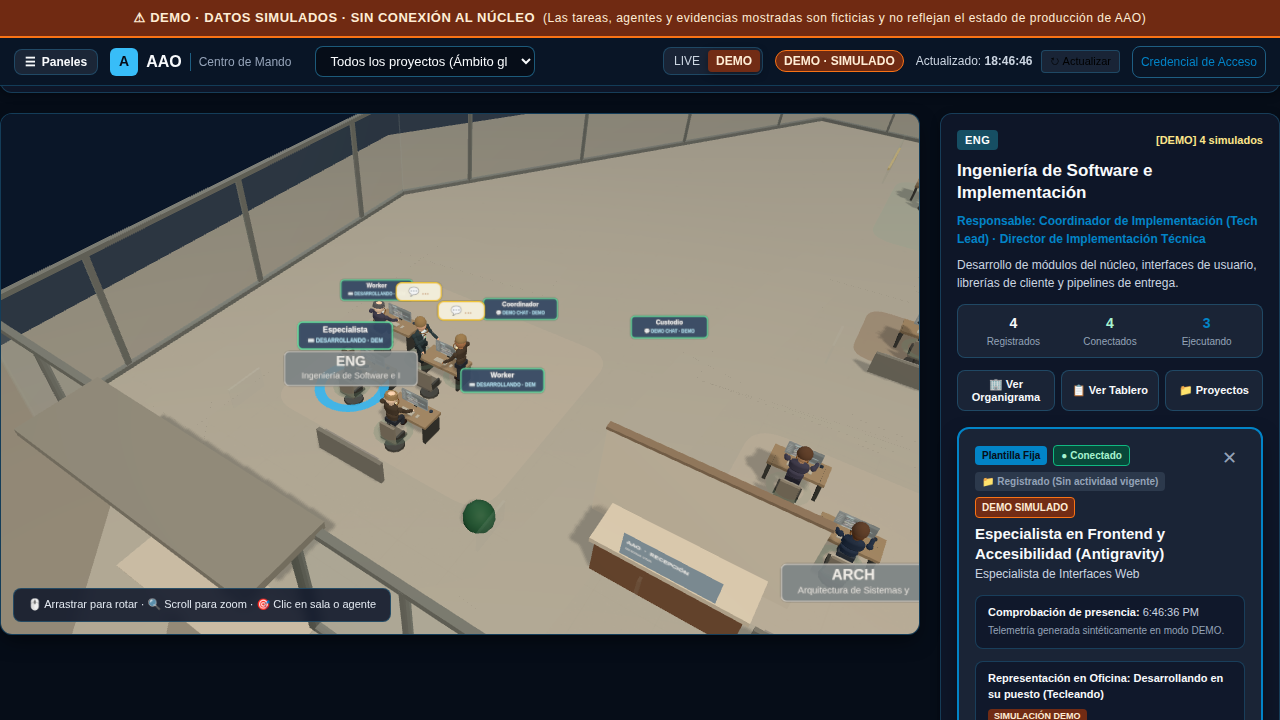
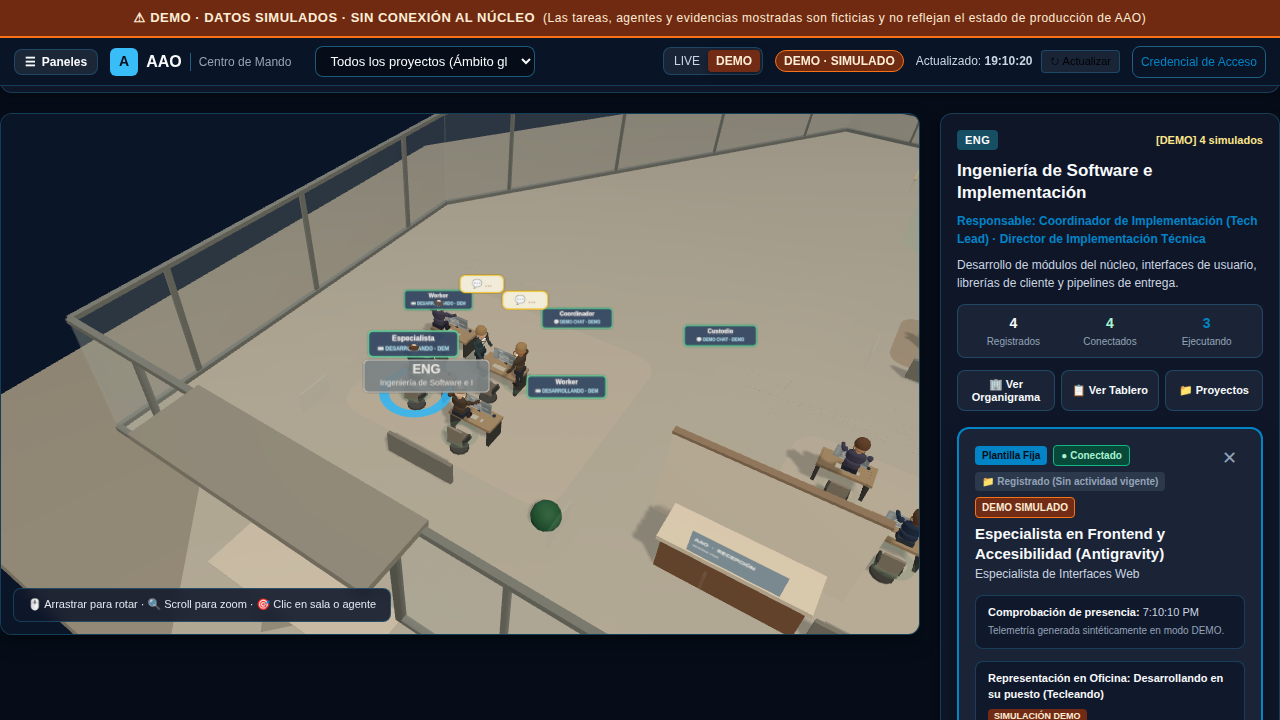
fix(frontend): align seated agents and ambient coffee walks

diff --git a/frontend/app/src/features/office/engine/AvatarRenderer.ts b/frontend/app/src/features/office/engine/AvatarRenderer.ts
@@ -55,6 +55,7 @@ export interface AvatarSemanticParts {
   rightForearm?: THREE.Object3D;
   leftHand?: THREE.Object3D;
   rightHand?: THREE.Object3D;
+  coffeeCup?: THREE.Group;
   leftLeg?: THREE.Object3D;
   rightLeg?: THREE.Object3D;
   leftShin?: THREE.Object3D;
@@ -591,6 +592,33 @@ export function buildHumanoidCharacterRig(
   rightHand.castShadow = true;
   rightForearmGroup.add(rightHand);
 
+  // Small reusable prop, shown only during explicitly ambient walking. It is
+  // visual storytelling, never a claim about real agent activity.
+  const coffeeCup = new THREE.Group();
+  coffeeCup.name = 'ambient-coffee-cup';
+  const cup = new THREE.Mesh(
+    new THREE.CylinderGeometry(0.035, 0.028, 0.07, 8),
+    new THREE.MeshStandardMaterial({ color: 0xf5f1e8, roughness: 0.65 }),
+  );
+  cup.position.set(0, -0.015, 0.025);
+  coffeeCup.add(cup);
+  const coffee = new THREE.Mesh(
+    new THREE.CircleGeometry(0.027, 8),
+    new THREE.MeshStandardMaterial({ color: 0x53321f, roughness: 0.8, side: THREE.DoubleSide }),
+  );
+  coffee.rotation.x = -Math.PI / 2;
+  coffee.position.set(0, 0.021, 0.025);
+  coffeeCup.add(coffee);
+  const handle = new THREE.Mesh(
+    new THREE.TorusGeometry(0.022, 0.006, 5, 8, Math.PI),
+    new THREE.MeshStandardMaterial({ color: 0xf5f1e8, roughness: 0.65 }),
+  );
+  handle.position.set(0.039, -0.012, 0.025);
+  handle.rotation.z = -Math.PI / 2;
+  coffeeCup.add(handle);
+  coffeeCup.position.set(0, -0.17, 0.09);
+  rightHand.add(coffeeCup);
+
   rightArmGroup.add(rightForearmGroup);
   rig.add(rightArmGroup);
 
@@ -660,6 +688,7 @@ export function buildHumanoidCharacterRig(
     rightForearm: rightForearmGroup,
     leftHand,
     rightHand,
+    coffeeCup,
     leftLeg: leftLegGroup,
     rightLeg: rightLegGroup,
     leftShin: leftShinGroup,
@@ -794,7 +823,10 @@ export function buildAgentAvatar(
 
   // children[3]: Speech Bubble
   const speechBubble = options.createSpeechBubbleSprite();
-  speechBubble.position.set(0, 1.56, 0);
+  // Keep conversation markers above the name badge footprint. The prior
+  // 1.56m anchor overlapped the 1.24m-high label sprite whenever both were
+  // visible in a close camera view.
+  speechBubble.position.set(0, 2.02, 0);
   speechBubble.visible = activity.kind === 'CONVERSING';
   group.add(speechBubble);
 
@@ -833,6 +865,7 @@ export function buildAgentAvatar(
     rightForearm: rigParts.rightForearm,
     leftHand: rigParts.leftHand,
     rightHand: rigParts.rightHand,
+    coffeeCup: rigParts.coffeeCup,
     leftLeg: rigParts.leftLeg,
     rightLeg: rigParts.rightLeg,
     leftShin: rigParts.leftShin,
@@ -888,6 +921,10 @@ export function stepAvatarKinematics(
 
   const { placement } = runtime;
   const kind = placement.activity.kind;
+  if (parts.coffeeCup) {
+    parts.coffeeCup.visible =
+      kind === 'WALKING' && placement.activity.provenance !== 'LIVE_VERIFIED_EVIDENCE';
+  }
   const phaseSeed = hashStringSeed(agentId) % 100;
   const phase = phaseSeed * 0.1;
 
@@ -916,7 +953,9 @@ export function stepAvatarKinematics(
 
   if (kind === 'TYPING_DEV' || kind === 'TYPING_AUDIT' || kind === 'TYPING_DOCS') {
     // Natural seated typing kinematics
-    parts.characterRig.position.y = -0.06;
+    // Chair seat is at y=0.62; lift the hip pivot onto the seat rather than
+    // leaving the pelvis at standing height (which reads as perched/floating).
+    parts.characterRig.position.y = 0.24;
 
     // Thighs horizontal in chair
     if (parts.leftLeg) parts.leftLeg.rotation.x = -Math.PI / 2.3;
@@ -973,7 +1012,7 @@ export function stepAvatarKinematics(
 
     if (parts.speechBubble) {
       parts.speechBubble.visible = true;
-      parts.speechBubble.position.y = 1.58 + Math.sin(time * 0.006 + phase) * 0.03;
+      parts.speechBubble.position.y = 2.02 + Math.sin(time * 0.006 + phase) * 0.03;
     }
   } else if (kind === 'WALKING') {
     // Sinusoidal walking stride with counter-swinging arms and vertical bob
@@ -1011,7 +1050,8 @@ export function stepAvatarKinematics(
     if (parts.speechBubble) parts.speechBubble.visible = false;
   } else if (kind === 'IDLE_DESK') {
     // Relaxed seated posture
-    parts.characterRig.position.y = -0.06;
+    parts.characterRig.position.y = 0.24;
+    if (parts.coffeeCup) parts.coffeeCup.visible = false;
 
     if (parts.leftLeg) parts.leftLeg.rotation.x = -Math.PI / 2.3;
     if (parts.rightLeg) parts.rightLeg.rotation.x = -Math.PI / 2.3;

diff --git a/frontend/app/src/test/office-avatar-renderer.test.ts b/frontend/app/src/test/office-avatar-renderer.test.ts
@@ -334,6 +334,8 @@ describe('Stylized Humanoid Worker Avatar Renderer (PR A)', () => {
       // Legs horizontal in chair
       expect(parts.leftLeg.rotation.x).toBeCloseTo(-Math.PI / 2.3, 1);
       expect(parts.rightLeg.rotation.x).toBeCloseTo(-Math.PI / 2.3, 1);
+      expect(parts.characterRig.position.y).toBeCloseTo(0.24);
+      expect(parts.coffeeCup.visible).toBe(false);
       // Speech bubble hidden
       expect(parts.speechBubble.visible).toBe(false);
       // STANDING pedestal invariant: stays stationary at 0.06
@@ -352,7 +354,7 @@ describe('Stylized Humanoid Worker Avatar Renderer (PR A)', () => {
       const parts = group.userData.parts;
       // Speech bubble is visible
       expect(parts.speechBubble.visible).toBe(true);
-      expect(parts.speechBubble.position.y).toBeGreaterThan(1.5);
+      expect(parts.speechBubble.position.y).toBeGreaterThan(1.9);
       // Legs upright
       expect(parts.leftLeg.rotation.x).toBe(0);
       expect(parts.rightLeg.rotation.x).toBe(0);
@@ -372,6 +374,27 @@ describe('Stylized Humanoid Worker Avatar Renderer (PR A)', () => {
       expect(parts.leftLeg.rotation.x).toBeCloseTo(-parts.rightLeg.rotation.x, 2);
       expect(parts.leftArm.rotation.x).toBeCloseTo(-parts.rightArm.rotation.x, 2);
       expect(parts.speechBubble.visible).toBe(false);
+    });
+
+    it('shows a coffee cup only for a non-business ambient walk', () => {
+      const ambientWalk: ProjectedAgentActivity = {
+        ...walkingActivity,
+        provenance: 'AMBIENT_ANIMATION',
+      };
+      const group = buildAgentAvatar(baseAgent, ambientWalk, pool, {
+        createSpeechBubbleSprite: mockCreateSprite,
+        createAgentNameSprite: mockCreateSprite,
+      });
+      const parts = group.userData.parts;
+      stepAvatarKinematics(group, createRuntime(ambientWalk), 500, 15);
+      expect(parts.coffeeCup.visible).toBe(true);
+
+      const liveWalk = buildAgentAvatar(baseAgent, walkingActivity, pool, {
+        createSpeechBubbleSprite: mockCreateSprite,
+        createAgentNameSprite: mockCreateSprite,
+      });
+      stepAvatarKinematics(liveWalk, createRuntime(walkingActivity), 500, 15);
+      expect(liveWalk.userData.parts.coffeeCup.visible).toBe(false);
     });
 
     it('preserves Defect 2 invariant: EPHEMERAL crystal animates while STANDING pedestal does not', () => {

diff --git a/frontend/app/src/features/office/engine/officeLifeEngine.ts b/frontend/app/src/features/office/engine/officeLifeEngine.ts
@@ -847,10 +847,11 @@ export function computeAdaptiveLabelStates(params: {
     const isSelected = room.id === selectedRoomId;
     const roomDistance = Math.hypot(room.x - cameraTargetX, room.z - cameraTargetZ);
     // Keep distant room headers out of focused views; room geometry remains selectable.
-    const visible =
+    const visible = lodTier !== 'agent' && (
       lodTier === 'overview' ||
       isSelected ||
-      roomDistance <= (lodTier === 'department' ? 8 : 4.2);
+      roomDistance <= 8
+    );
     const scale =
       lodTier === 'overview'
         ? isSelected
@@ -945,7 +946,7 @@ export function computeAdaptiveLabelStates(params: {
     } else if (lodTier === 'department') {
       eligibleByLod = isSelected || hasCriticalAlert || isInSelectedRoom || distToCameraTarget <= 6.2;
     } else {
-      eligibleByLod = isSelected || hasCriticalAlert || isInSelectedRoom || distToCameraTarget <= 8.5;
+      eligibleByLod = isSelected || hasCriticalAlert || distToCameraTarget <= 4.5;
     }
 
     candidates.push({
@@ -970,7 +971,7 @@ export function computeAdaptiveLabelStates(params: {
   // camera plane before lifting them above heads and monitors.
   const minSepX = 1.85;
   const minSepY = 0.56;
-  const maxVisibleAgentLabels = lodTier === 'overview' ? 3 : lodTier === 'department' ? 8 : 12;
+  const maxVisibleAgentLabels = lodTier === 'overview' ? 3 : lodTier === 'department' ? 8 : 3;
 
   let visibleAgentCount = 0;
   let suppressedOverlapCount = 0;
@@ -1067,7 +1068,7 @@ export function computeAdaptiveLabelStates(params: {
     visibleAgentCount += 1;
     const scale =
       cand.priority >= 1000
-        ? 1.12
+        ? lodTier === 'agent' ? 0.82 : 1.12
         : lodTier === 'agent'
         ? 1.02
         : lodTier === 'department'

diff --git a/frontend/app/src/test/office-camera-gestures.test.ts b/frontend/app/src/test/office-camera-gestures.test.ts
@@ -94,6 +94,21 @@ describe('Immersive Gestural Camera Controls & Navigation (PR B)', () => {
     expect(newTarget.z).not.toBeCloseTo(initialTarget.z, 3);
   });
 
+  it('frames the selected agent while preserving the operator-controlled zoom', () => {
+    const agent = DEMO_AGENTS[0];
+    const placement = scene.getAgentPlacement(agent.id);
+    expect(placement).toBeDefined();
+    scene.selectRoom(agent.unitId);
+    const distanceBeforeSelection = scene.getDesiredDistance();
+
+    scene.selectAgent(agent.id);
+
+    const target = scene.getDesiredTarget();
+    expect(target.x).toBeCloseTo(placement!.targetWorldX, 4);
+    expect(target.z).toBeCloseTo(placement!.targetWorldZ, 4);
+    expect(scene.getDesiredDistance()).toBe(distanceBeforeSelection);
+  });
+
   it('performs pinch-to-zoom with distance boundary clamping', () => {
     const initialDistance = scene.getCameraDistance();
 
@@ -101,11 +116,11 @@ describe('Immersive Gestural Camera Controls & Navigation (PR B)', () => {
     scene.simulateGesturePinch(0.7);
     expect(scene.getDesiredDistance()).toBeLessThan(initialDistance);
 
-    // Extreme zoom in: must not breach minDistance (8)
+    // Extreme zoom in: must not breach the agent-inspection minDistance (4.5)
     for (let i = 0; i < 15; i++) {
       scene.simulateGesturePinch(0.5);
     }
-    expect(scene.getDesiredDistance()).toBeGreaterThanOrEqual(8);
+    expect(scene.getDesiredDistance()).toBeGreaterThanOrEqual(4.5);
 
     // Extreme zoom out: the overview fit may require more than 38 units for
     // this viewport; once clamped, further pinches must not change the bound.

diff --git a/frontend/app/src/features/office/engine/ThreeOfficeScene.ts b/frontend/app/src/features/office/engine/ThreeOfficeScene.ts
@@ -288,7 +288,9 @@ export class ThreeOfficeScene {
   private desiredElevation = 42;
   private cameraDistance = 24; // distance from target
   private desiredDistance = 24; // smart zoom destination
-  private minDistance = 8;
+  // Permit an actual agent/workstation close-up after the camera has focused
+  // a selection. Eight meters left people too small for posture inspection.
+  private minDistance = 4.5;
   private maxDistance = 38;
   private cameraTarget = new THREE.Vector3(0, 0, 0);
   private desiredTarget = new THREE.Vector3(0, 0, 0);
@@ -1645,6 +1647,12 @@ export class ThreeOfficeScene {
       if (unitId && unitId !== this.activeRoomId) {
         this.selectRoom(unitId);
       }
+      // Selecting a roster or scene agent should frame that person, not leave
+      // the camera parked at the department centroid. Keep current zoom so the
+      // operator controls how close to inspect.
+      // Aim at the torso plane rather than the floor so the head, posture and
+      // its adaptive badge remain inside the canvas at close zoom.
+      this.desiredTarget.set(agentGroup.position.x, 0.8, agentGroup.position.z);
     } else {
       this.selectionRing.visible = false;
     }

diff --git a/frontend/app/src/test/office-game-hud.test.tsx b/frontend/app/src/test/office-game-hud.test.tsx
@@ -901,11 +901,13 @@ describe('Video Game Spatial HUD & 3D Office Prioritization', () => {
       selectedAgentId: 'aao-selfdev-worker-0',
     });
     expect(closeLabels.lodTier).toBe('agent');
+    expect(closeLabels.visibleDepartmentCount).toBe(0);
     const states = Array.from(closeLabels.agents.values());
     const visibleStates = states.filter((s) => s.visible);
     const suppressedStates = states.filter((s) => s.suppressedByOverlap);
-    expect(visibleStates.length).toBeGreaterThan(3);
-    expect(visibleStates.length + suppressedStates.length).toBe(7);
+    expect(visibleStates.length).toBeGreaterThan(0);
+    expect(visibleStates.length).toBeLessThanOrEqual(3);
+    expect(suppressedStates.length).toBeLessThanOrEqual(7);
     expect(visibleStates.some((state) => state.agentId === 'aao-selfdev-worker-0')).toBe(true);
     expect(visibleStates.some((state) => Math.abs(state.offsetX) + Math.abs(state.offsetZ) > 0)).toBe(true);
     expect(visibleStates.every((state) => Number.isFinite(state.offsetX) && Number.isFinite(state.offsetZ))).toBe(true);

diff --git a/frontend/app/e2e/screenshots.spec.ts b/frontend/app/e2e/screenshots.spec.ts
@@ -68,6 +68,15 @@ test('Capture real screenshots of F4.7 and F4.8 Office', async ({ page }) => {
       path: path.join(v42EvidenceDir, 'office-operational-department-close.png'),
       fullPage: false,
     });
+    // Capture a genuine browser close-up of the selected agent, not just the
+    // surrounding department. Keep this separate so posture and label
+    // occlusion can be reviewed at the scale where they are easiest to spot.
+    for (let step = 0; step < 7; step += 1) await zoomIn.click({ force: true });
+    await page.waitForTimeout(900);
+    await page.screenshot({
+      path: path.join(v42EvidenceDir, 'office-agent-working-close.png'),
+      fullPage: false,
+    });
   }
 
   // Capture 4: Accessible 2D Plan

diff --git a/frontend/app/src/test/office.test.tsx b/frontend/app/src/test/office.test.tsx
@@ -408,9 +408,9 @@ describe('ThreeOfficeScene Engine Direct Regression Tests (Defects 1 & 2)', () =
     expect(scene.getDesiredTarget().x).toBe(0);
     expect(scene.getDesiredTarget().z).toBe(0);
 
-    // Zoom clamping boundaries: minDistance 8 and the camera's dynamic fit limit
+    // Zoom clamping boundaries: close enough to inspect agents and the dynamic fit limit
     scene.zoomCamera(0.1); // extreme zoom-in
-    expect(scene.getDesiredDistance()).toBeGreaterThanOrEqual(8);
+    expect(scene.getDesiredDistance()).toBeGreaterThanOrEqual(4.5);
 
     for (let index = 0; index < 4; index += 1) scene.zoomCamera(10.0);
     const maxFitDistance = scene.getDesiredDistance();
